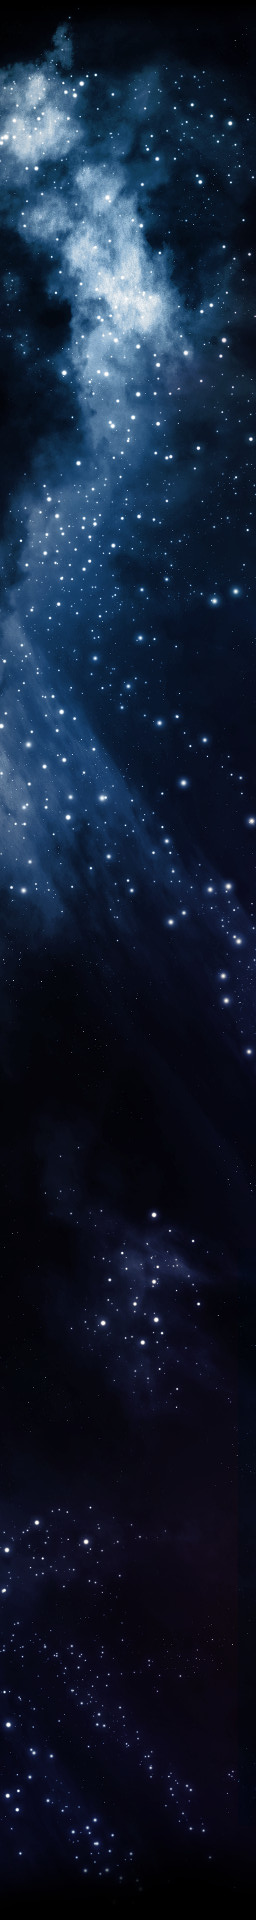
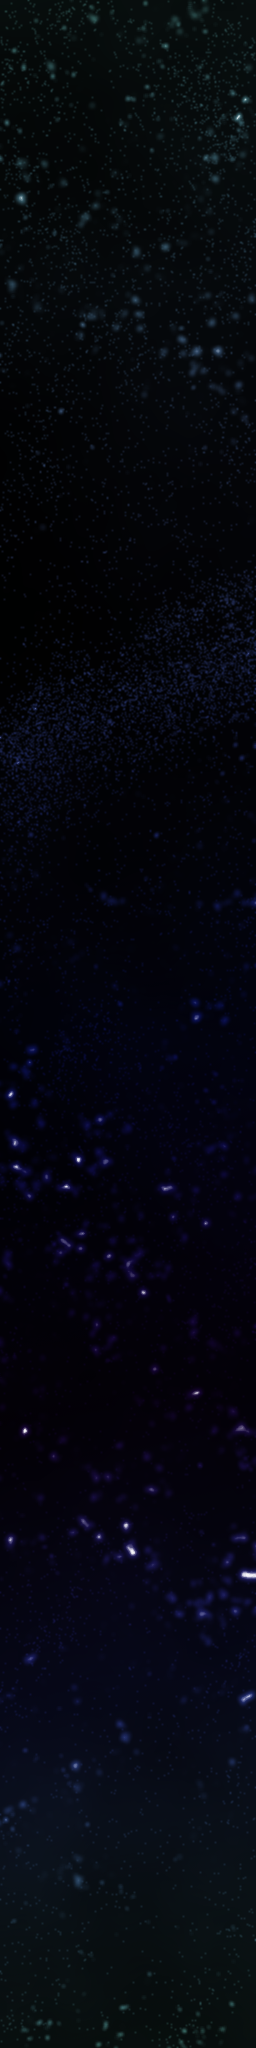
Replace starfield with one I drew

diff --git a/puzzle_screen.cc b/puzzle_screen.cc
@@ -6,7 +6,7 @@
 
 PuzzleScreen::PuzzleScreen() :
   gui_("gui.png", 3, 8, 8),
-  bg_("starfield.png", 256, 1920, 4),
+  bg_("starfield.png", 256, 2048, 4),
   text_("text.png")
 {
   rand_.seed(Util::random_seed());
